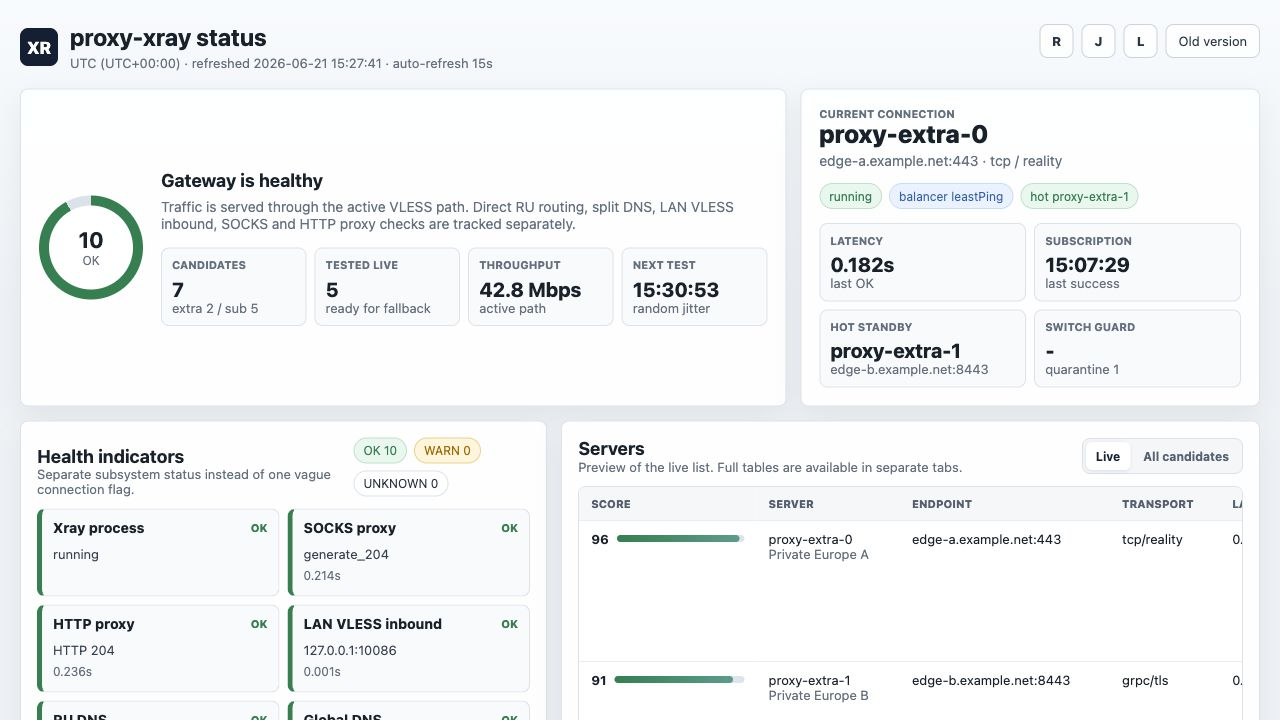
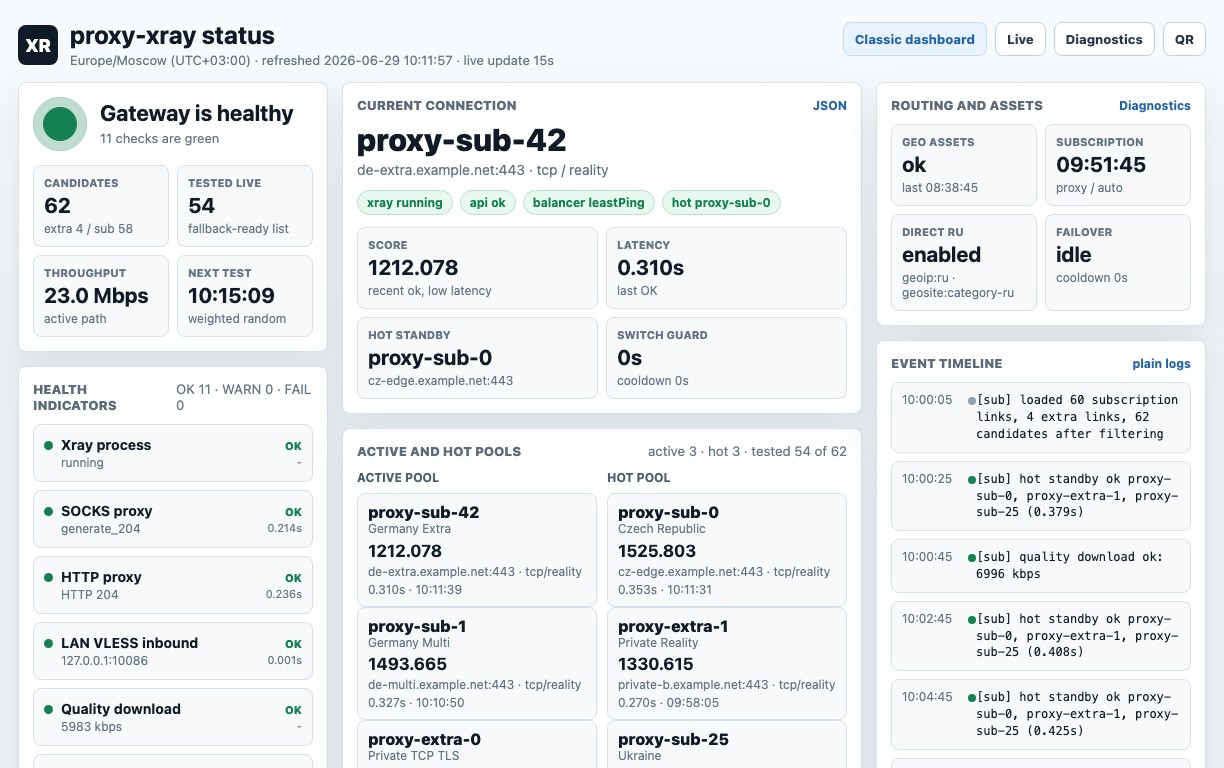
Update README dashboard preview

diff --git a/scripts/render-demo-status.py b/scripts/render-demo-status.py
@@ -8,7 +8,7 @@ if ROOT_DIR not in sys.path:
     sys.path.insert(0, ROOT_DIR)
 
 from proxy_xray import status
-from proxy_xray.status_server import render_servers_html, render_status_html
+from proxy_xray.status_server import render_dashboard_v5_html, render_servers_html
 
 
 def candidate(tag, source, name, host, port, network, security, score, latency, throughput, ok_offset):
@@ -35,13 +35,40 @@ def candidate(tag, source, name, host, port, network, security, score, latency, 
 def main():
     now = time.time()
     live = [
-        candidate("proxy-extra-0", "extra", "Private Europe A", "edge-a.example.net", 443, "tcp", "reality", 96, 0.182, 42800, 72),
-        candidate("proxy-extra-1", "extra", "Private Europe B", "edge-b.example.net", 8443, "grpc", "tls", 91, 0.244, 38600, 185),
-        candidate("proxy-sub-4", "subscription", "Germany 12", "de-12.example.org", 443, "ws", "tls", 84, 0.512, 27400, 340),
-        candidate("proxy-sub-9", "subscription", "Netherlands 07", "nl-07.example.org", 443, "tcp", "reality", 78, 0.691, 21900, 470),
-        candidate("proxy-sub-15", "subscription", "Finland 03", "fi-03.example.org", 443, "ws", "tls", 66, 1.104, 12800, 830),
+        candidate("proxy-sub-0", "subscription", "Czech Republic", "cz-edge.example.net", 443, "tcp", "reality", 1525.803, 0.353, 32400, 34),
+        candidate("proxy-sub-1", "subscription", "Germany Multi", "de-multi.example.net", 443, "tcp", "reality", 1493.665, 0.327, 36100, 75),
+        candidate("proxy-sub-2", "subscription", "Poland", "pl-edge.example.net", 443, "tcp", "reality", 1455.166, 0.334, 28900, 136),
+        candidate("proxy-sub-3", "subscription", "Finland", "fi-edge.example.net", 443, "tcp", "reality", 1428.766, 0.543, 24100, 210),
+        candidate("proxy-sub-4", "subscription", "Netherlands Multi", "nl-multi.example.net", 443, "tcp", "reality", 1428.407, 0.438, 31200, 330),
+        candidate("proxy-sub-5", "subscription", "Italy", "it-edge.example.net", 443, "tcp", "reality", 1424.021, 0.509, 21800, 420),
+        candidate("proxy-sub-6", "subscription", "Norway", "no-edge.example.net", 443, "tcp", "reality", 1417.387, 0.682, 19700, 520),
+        candidate("proxy-extra-0", "extra", "Private TCP TLS", "private-a.example.net", 8443, "tcp", "tls", 1388.347, 0.335, 29200, 610),
+        candidate("proxy-extra-1", "extra", "Private Reality", "private-b.example.net", 443, "tcp", "reality", 1330.615, 0.270, 33100, 840),
+        candidate("proxy-sub-25", "subscription", "Ukraine", "ua-edge.example.net", 443, "tcp", "reality", 1272.611, 0.513, 18600, 1000),
+        candidate("proxy-sub-42", "subscription", "Germany Extra", "de-extra.example.net", 443, "tcp", "reality", 1212.078, 0.310, 23000, 26),
     ]
-    all_candidates = live + [
+    current = live[-1]
+    hot = live[0]
+    active_pool = [current, live[1], live[7]]
+    standby_pool = [hot, live[8], live[9]]
+    generated_live = [
+        candidate(
+            f"proxy-sub-{index}",
+            "subscription",
+            f"Europe Node {index}",
+            f"eu-{index:02d}.example.net",
+            443,
+            "tcp",
+            "reality",
+            1260 - index,
+            0.350 + (index % 9) / 100,
+            18000 + index * 120,
+            1200 + index * 17,
+        )
+        for index in range(10, 54)
+    ]
+    tested_live = live[:10] + generated_live
+    all_candidates = tested_live + [
         {
             **candidate("proxy-sub-21", "subscription", "France 18", "fr-18.example.org", 443, "tcp", "reality", 38, None, None, 0),
             "last_ok_at": None,
@@ -64,8 +91,9 @@ def main():
         "dns_ru": {"status": "ok", "label": "RU DNS", "detail": "yandex.ru", "latency": 0.041},
         "dns_global": {"status": "ok", "label": "Global DNS", "detail": "google.com", "latency": 0.022},
         "telegram": {"status": "ok", "label": "Telegram API", "detail": "reachable without sending message"},
-        "throughput": {"status": "ok", "label": "Throughput", "detail": "42.8 Mbps"},
-        "subscription": {"status": "ok", "label": "Subscription", "detail": "loaded 64 subscription links via proxy"},
+        "quality_download": {"status": "ok", "label": "Quality download", "detail": "5983 kbps"},
+        "throughput": {"status": "ok", "label": "Throughput", "detail": "23009 kbps"},
+        "subscription": {"status": "ok", "label": "Subscription", "detail": "loaded 60 subscription links via proxy"},
         "direct_internet": {"status": "ok", "label": "Direct internet", "detail": "HTTP 204", "latency": 0.055},
     }
 
@@ -74,26 +102,28 @@ def main():
             "started_at": now - 18530,
             "mode": "native-balancer",
             "xray_running": True,
-            "candidates_count": len(all_candidates),
-            "sources": {"extra": 2, "subscription": 5},
-            "fallback": live[0],
+            "candidates_count": 62,
+            "sources": {"extra": 4, "subscription": 58},
+            "fallback": current,
             "active_path": {
                 "status": "ok",
                 "balancer": "auto",
                 "strategy": "leastPing",
-                "selected_tag": "proxy-extra-0",
-                "selected": live[0],
-                "fallback": live[0],
-            },
-            "active_backend": {"running": True, "candidate": live[0], "socks_port": 11080, "http_port": 18123},
-            "hot_standby": {"running": True, "healthy": True, "candidate": live[1], "socks_port": 12080, "http_port": 18223},
+                "selected_tag": current["tag"],
+                "selected": current,
+                "fallback": current,
+                },
+            "active_backend": {"running": True, "candidate": current, "pool_size": 3, "socks_port": 11080, "http_port": 18123},
+            "hot_standby": {"running": True, "healthy": True, "candidate": hot, "pool_size": 3, "socks_port": 12080, "http_port": 18223},
+            "active_pool": active_pool,
+            "standby_pool": standby_pool,
             "last_refresh_at": now - 480,
             "last_subscription_success_at": now - 1220,
             "last_health": {"status": "ok", "latency": 0.214},
-            "last_throughput": {"status": "ok", "kbps": 42800},
+            "last_throughput": {"status": "ok", "kbps": 23009},
             "health_checks": health_checks,
             "last_health_checks_at": now - 8,
-            "last_subscription_status": {"status": "ok", "detail": "loaded 64 subscription links via proxy"},
+            "last_subscription_status": {"status": "ok", "detail": "loaded 60 subscription links via proxy"},
             "subscription_fetch": {"mode": "auto", "proxy": "socks5h://127.0.0.1:1080", "proxy_allowed": True, "last_method": "proxy"},
             "assets": {
                 "dir": "/opt/proxy-xray/assets",
@@ -106,10 +136,10 @@ def main():
                     "geosite": {"status": "ok", "size": 10397605, "mtime": now - 5600, "last_success_at": now - 5600, "last_error": None},
                 },
             },
-            "last_candidate_check": {"status": "ok", "tag": "proxy-sub-9", "latency": 0.691},
+            "last_candidate_check": {"status": "ok", "tag": current["tag"], "latency": current["last_latency"]},
             "next_candidate_check_at": now + 184,
             "candidate_checker": {"enabled": True, "min_interval": 120, "max_interval": 300},
-            "standby": live[1],
+            "standby": hot,
             "standby_policy": {"max_age": 600, "cooldown": 180, "quarantine_duration": 900},
             "switch_cooldown_until": None,
             "last_switch": {"time": now - 7800, "reason": "throughput degraded", "from": "proxy-sub-2", "to": "proxy-extra-0"},
@@ -118,7 +148,7 @@ def main():
             "slow_checks": 0,
             "throughput_slow_checks": 0,
             "candidates": all_candidates,
-            "tested_live_candidates": live,
+            "tested_live_candidates": tested_live,
             "routing": {
                 "direct_domains": ["geosite:category-ru", "regexp:.*\\.ru$", "regexp:.*\\.su$", "regexp:.*\\.xn--p1ai$"],
                 "direct_ips": ["geoip:ru"],
@@ -128,21 +158,21 @@ def main():
     )
     status.LOG_BUFFER.clear()
     for offset, line in [
-        (460, "refreshing subscription"),
-        (454, "loaded 64 subscription links, 2 extra links, 66 candidates after filtering"),
-        (420, "active-a active selected 1 candidates; fallback: proxy-extra-0 (edge-a.example.net:443); socks=11080 http=18123"),
-        (392, "active-b hot standby selected 1 candidates; fallback: proxy-extra-1 (edge-b.example.net:8443); socks=12080 http=18223"),
-        (300, "hot standby ok proxy-extra-1 (0.244s)"),
-        (228, "throughput ok: 42800 kbps"),
-        (184, "checking weighted-random candidate proxy-sub-9 (nl-07.example.org:443)"),
-        (178, "candidate ok proxy-sub-9: 0.691s"),
-        (8, "health checks ok; public ports remain on proxy-extra-0"),
+        (720, "loaded 60 subscription links, 4 extra links, 62 candidates after filtering"),
+        (700, "hot standby ok proxy-sub-0, proxy-extra-1, proxy-sub-25 (0.379s)"),
+        (680, "quality download ok: 6996 kbps"),
+        (560, "hot standby ok proxy-sub-0, proxy-extra-1, proxy-sub-25 (0.408s)"),
+        (440, "hot standby ok proxy-sub-0, proxy-extra-1, proxy-sub-25 (0.425s)"),
+        (320, "quality download ok: 5983 kbps"),
+        (210, "throughput ok: 23009 kbps"),
+        (48, "hot standby ok proxy-sub-0, proxy-extra-1, proxy-sub-25 (0.353s)"),
+        (8, "quality download ok: 6823 kbps"),
     ]:
         status.LOG_BUFFER.append({"time": now - offset, "line": f"[sub] {line}"})
 
     os.makedirs("docs", exist_ok=True)
     with open("docs/status-dashboard-demo.html", "wb") as handle:
-        handle.write(render_status_html())
+        handle.write(render_dashboard_v5_html())
     with open("docs/status-servers-demo.html", "wb") as handle:
         handle.write(render_servers_html("live"))
 

diff --git a/proxy_xray/status_server.py b/proxy_xray/status_server.py
@@ -1213,12 +1213,14 @@ def render_dashboard_v5_html():
     .v5-health-side small {{ display: block; margin-top: 3px; font-size: 11px; }}
     .v5-pool-grid {{ display: grid; grid-template-columns: repeat(2, minmax(0,1fr)); gap: 10px; }}
     h3 {{ color: #4c5d6f; font-size: 12px; text-transform: uppercase; margin-bottom: 8px; }}
-    .v5-server-card {{ display: grid; grid-template-columns: minmax(0, 1fr) minmax(190px, .8fr); gap: 12px; align-items: start; min-height: 72px; }}
-    .v5-server-tag {{ font-size: 16px; font-weight: 850; overflow-wrap: anywhere; }}
-    .v5-muted {{ font-size: 12px; line-height: 1.3; overflow-wrap: anywhere; }}
+    .v5-server-card {{ display: grid; grid-template-columns: minmax(98px, 1fr) minmax(145px, .9fr); gap: 8px; align-items: start; min-height: 72px; }}
+    .v5-server-tag {{ font-size: 16px; font-weight: 850; overflow-wrap: break-word; word-break: normal; }}
+    .v5-muted {{ font-size: 12px; line-height: 1.3; overflow-wrap: break-word; word-break: normal; }}
     .v5-server-meta {{ text-align: right; display: grid; gap: 3px; }}
     .v5-server-meta strong {{ font-size: 17px; }}
     .v5-server-meta span {{ color: var(--muted); font-size: 12px; line-height: 1.25; overflow-wrap: anywhere; }}
+    .v5-pool-grid .v5-server-card {{ grid-template-columns: 1fr; gap: 4px; min-height: 92px; }}
+    .v5-pool-grid .v5-server-meta {{ text-align: left; }}
     .v5-event {{ display: grid; grid-template-columns: 64px minmax(0,1fr); gap: 10px; position: relative; }}
     .v5-event::before {{ content: ""; position: absolute; left: 76px; top: 14px; width: 8px; height: 8px; border-radius: 50%; background: #94a1ad; }}
     .v5-event.ok::before {{ background: var(--green); }}